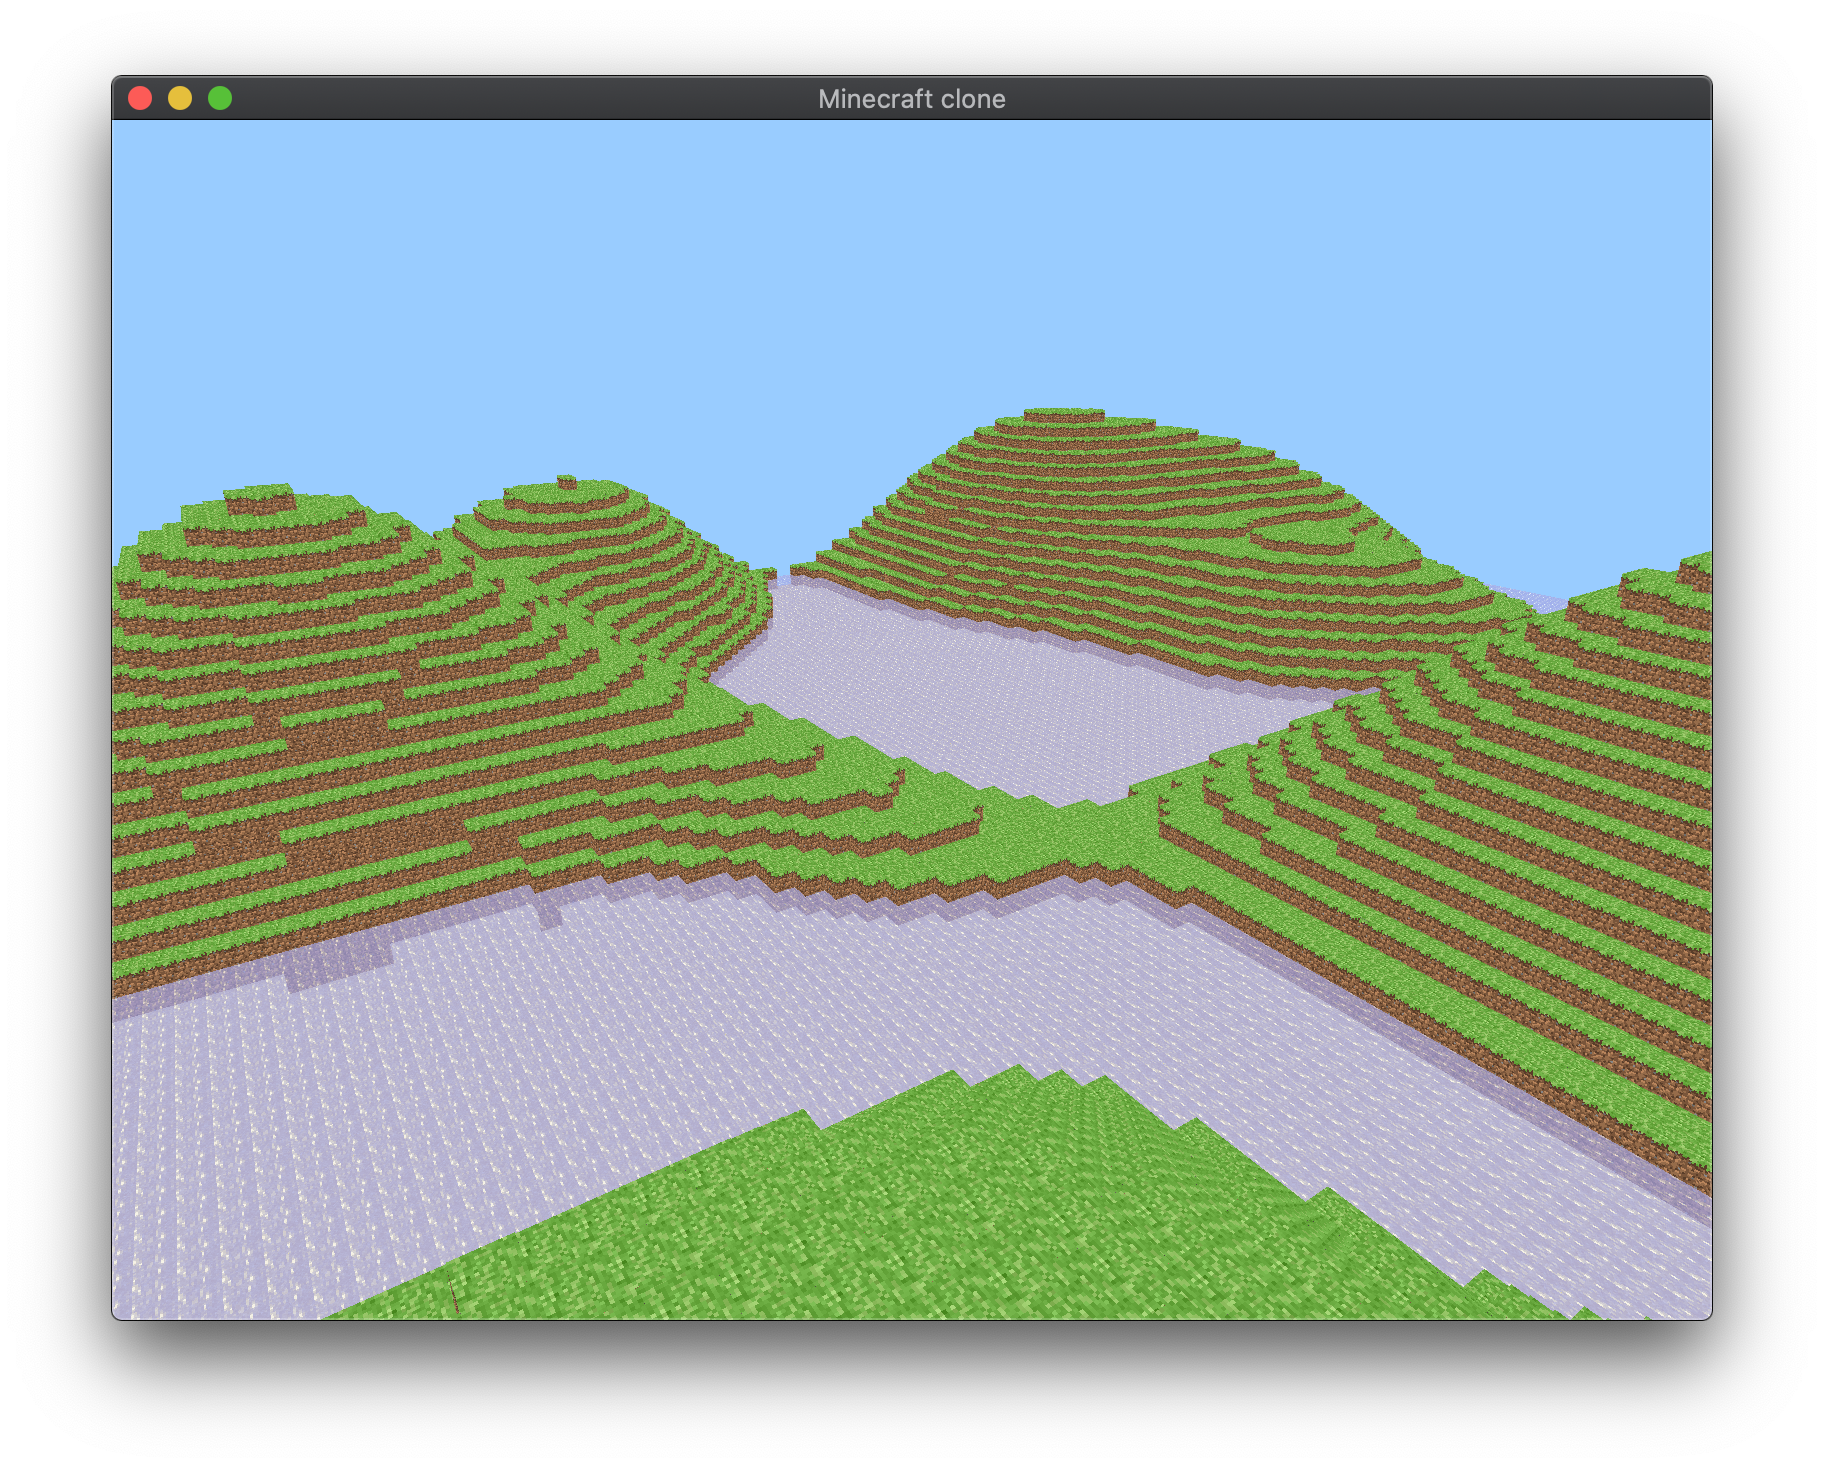
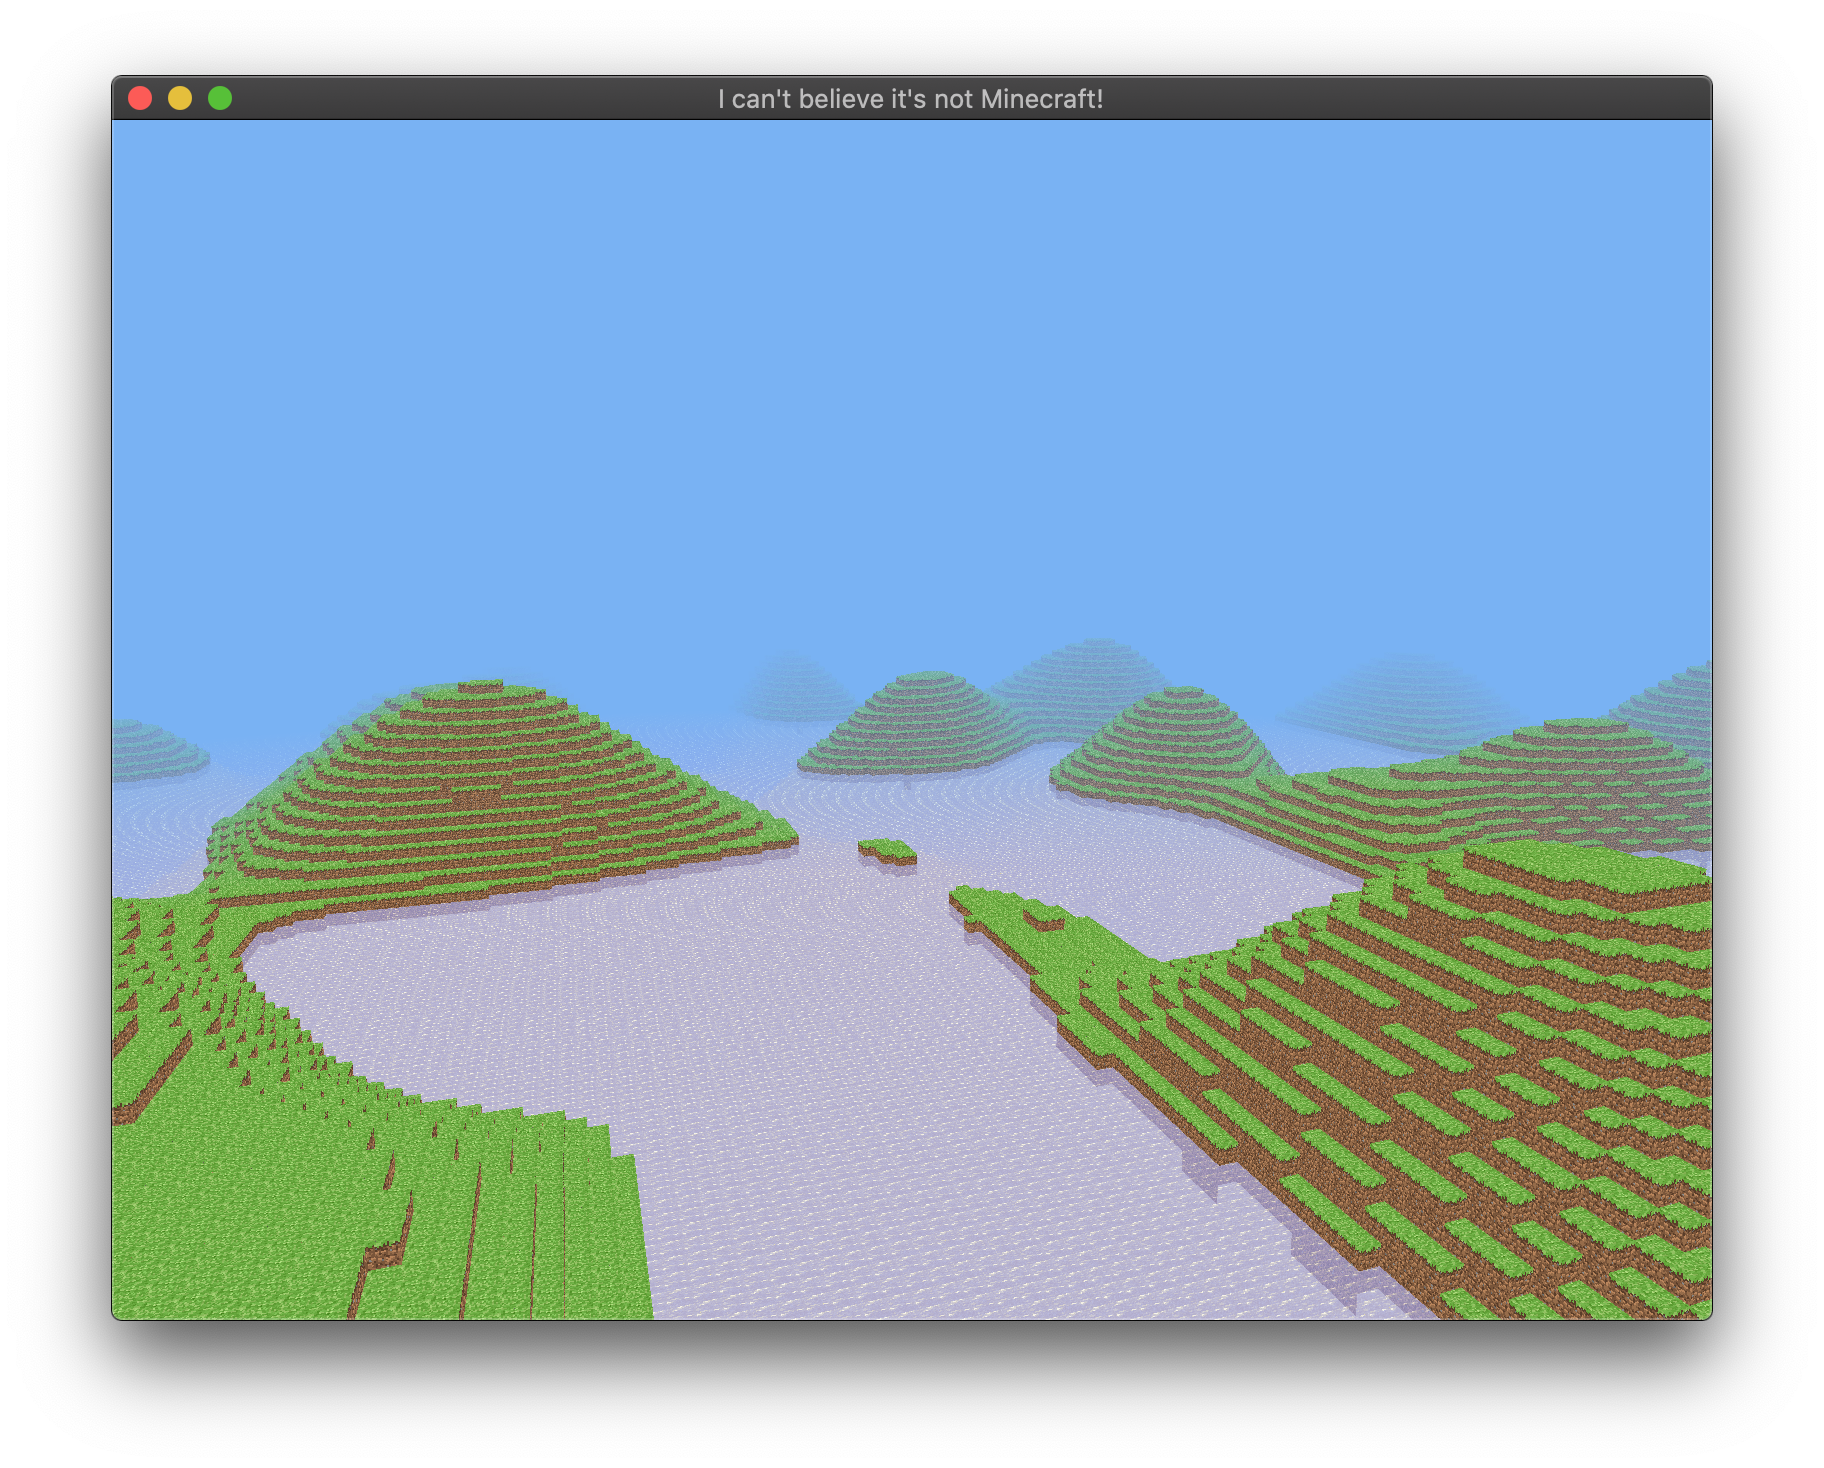
Naive fog

diff --git a/src/rendering/program.cpp b/src/rendering/program.cpp
@@ -81,6 +81,11 @@ void Program::setUniform(const std::string &name, int value) const {
     glUniform1i(glGetUniformLocation(id, name.c_str()), value);
 }
 
+void Program::setUniform(const std::string &name, const glm::vec3 &value) const {
+    auto location = glGetUniformLocation(id, name.c_str());
+    glUniform3fv(location, 1, glm::value_ptr(value));
+}
+
 void Program::setUniform(const std::string &name, const glm::mat4 &value) const {
     auto location = glGetUniformLocation(id, name.c_str());
     glUniformMatrix4fv(location, 1, GL_FALSE, glm::value_ptr(value));

diff --git a/src/views/renderers/QuadRenderer.cpp b/src/views/renderers/QuadRenderer.cpp
@@ -13,9 +13,9 @@ QuadRenderer::QuadRenderer()
 void QuadRenderer::renderSync() {
     texture.use();
     program.setUniform("mvp", Game::getInstance().player.getFPMatrix());
+    program.setUniform("cameraPosition", Game::getInstance().player.position);
 
-    // render to screen
-    glClearColor(0.6, 0.8, 1, 1);
+    glClearColor(0.474509804, 0.698039216, 0.952941176, 1);  // Sky color
     glClear(GL_COLOR_BUFFER_BIT | GL_DEPTH_BUFFER_BIT);  // NOLINT
     glDrawElements(GL_TRIANGLES, bufferedElements, GL_UNSIGNED_INT, reinterpret_cast<GLvoid *>(0));
 }

diff --git a/src/controllers/InputController.cpp b/src/controllers/InputController.cpp
@@ -27,7 +27,7 @@ void InputController::update() {
 
 void InputController::registerMouseHandler() const {
     glfwSetInputMode(window, GLFW_CURSOR, GLFW_CURSOR_DISABLED);
-    glfwSetWindowUserPointer(window, (void *) this);
+    glfwSetWindowUserPointer(window, const_cast<void *>(reinterpret_cast<void const *>(this)));
     glfwSetCursorPosCallback(window, [](GLFWwindow *w, double xPos, double yPos) {
         auto *self = static_cast<InputController *>(glfwGetWindowUserPointer(w));
 

diff --git a/include/rendering/program.hpp b/include/rendering/program.hpp
@@ -22,6 +22,8 @@ public:
 
     void setUniform(const std::string &name, int value) const;
 
+    void setUniform(const std::string &name, const glm::vec3 &value) const;
+
     void setUniform(const std::string &name, const glm::mat4 &value) const;
 
     Program(const std::string &, const std::string &);

diff --git a/src/main.cpp b/src/main.cpp
@@ -13,7 +13,7 @@ int main() {
         exit(EXIT_FAILURE);
     }
 
-    windowView->addView(new RenderingView(new InstancingRenderer()));
+    windowView->addView(new RenderingView(new QuadRenderer()));
 
     MovementController controller(windowView->getWindow());
 

diff --git a/README.md b/README.md
@@ -14,6 +14,7 @@ An attempt to recreate a subset of the popular game "Minecraft", delving deeper 
 * Transparent and semi-transparent blocks (leaves, water)
 * Seeded terrain generation based on simplex noise
 * Two renderers - one based on glDrawElementArrays, and one based on instancing
+* Naive fog implementation
 
 ## Extra stuff
 * GitHub Actions pipeline for releases on Linux and MacOS (Windows in the future)
